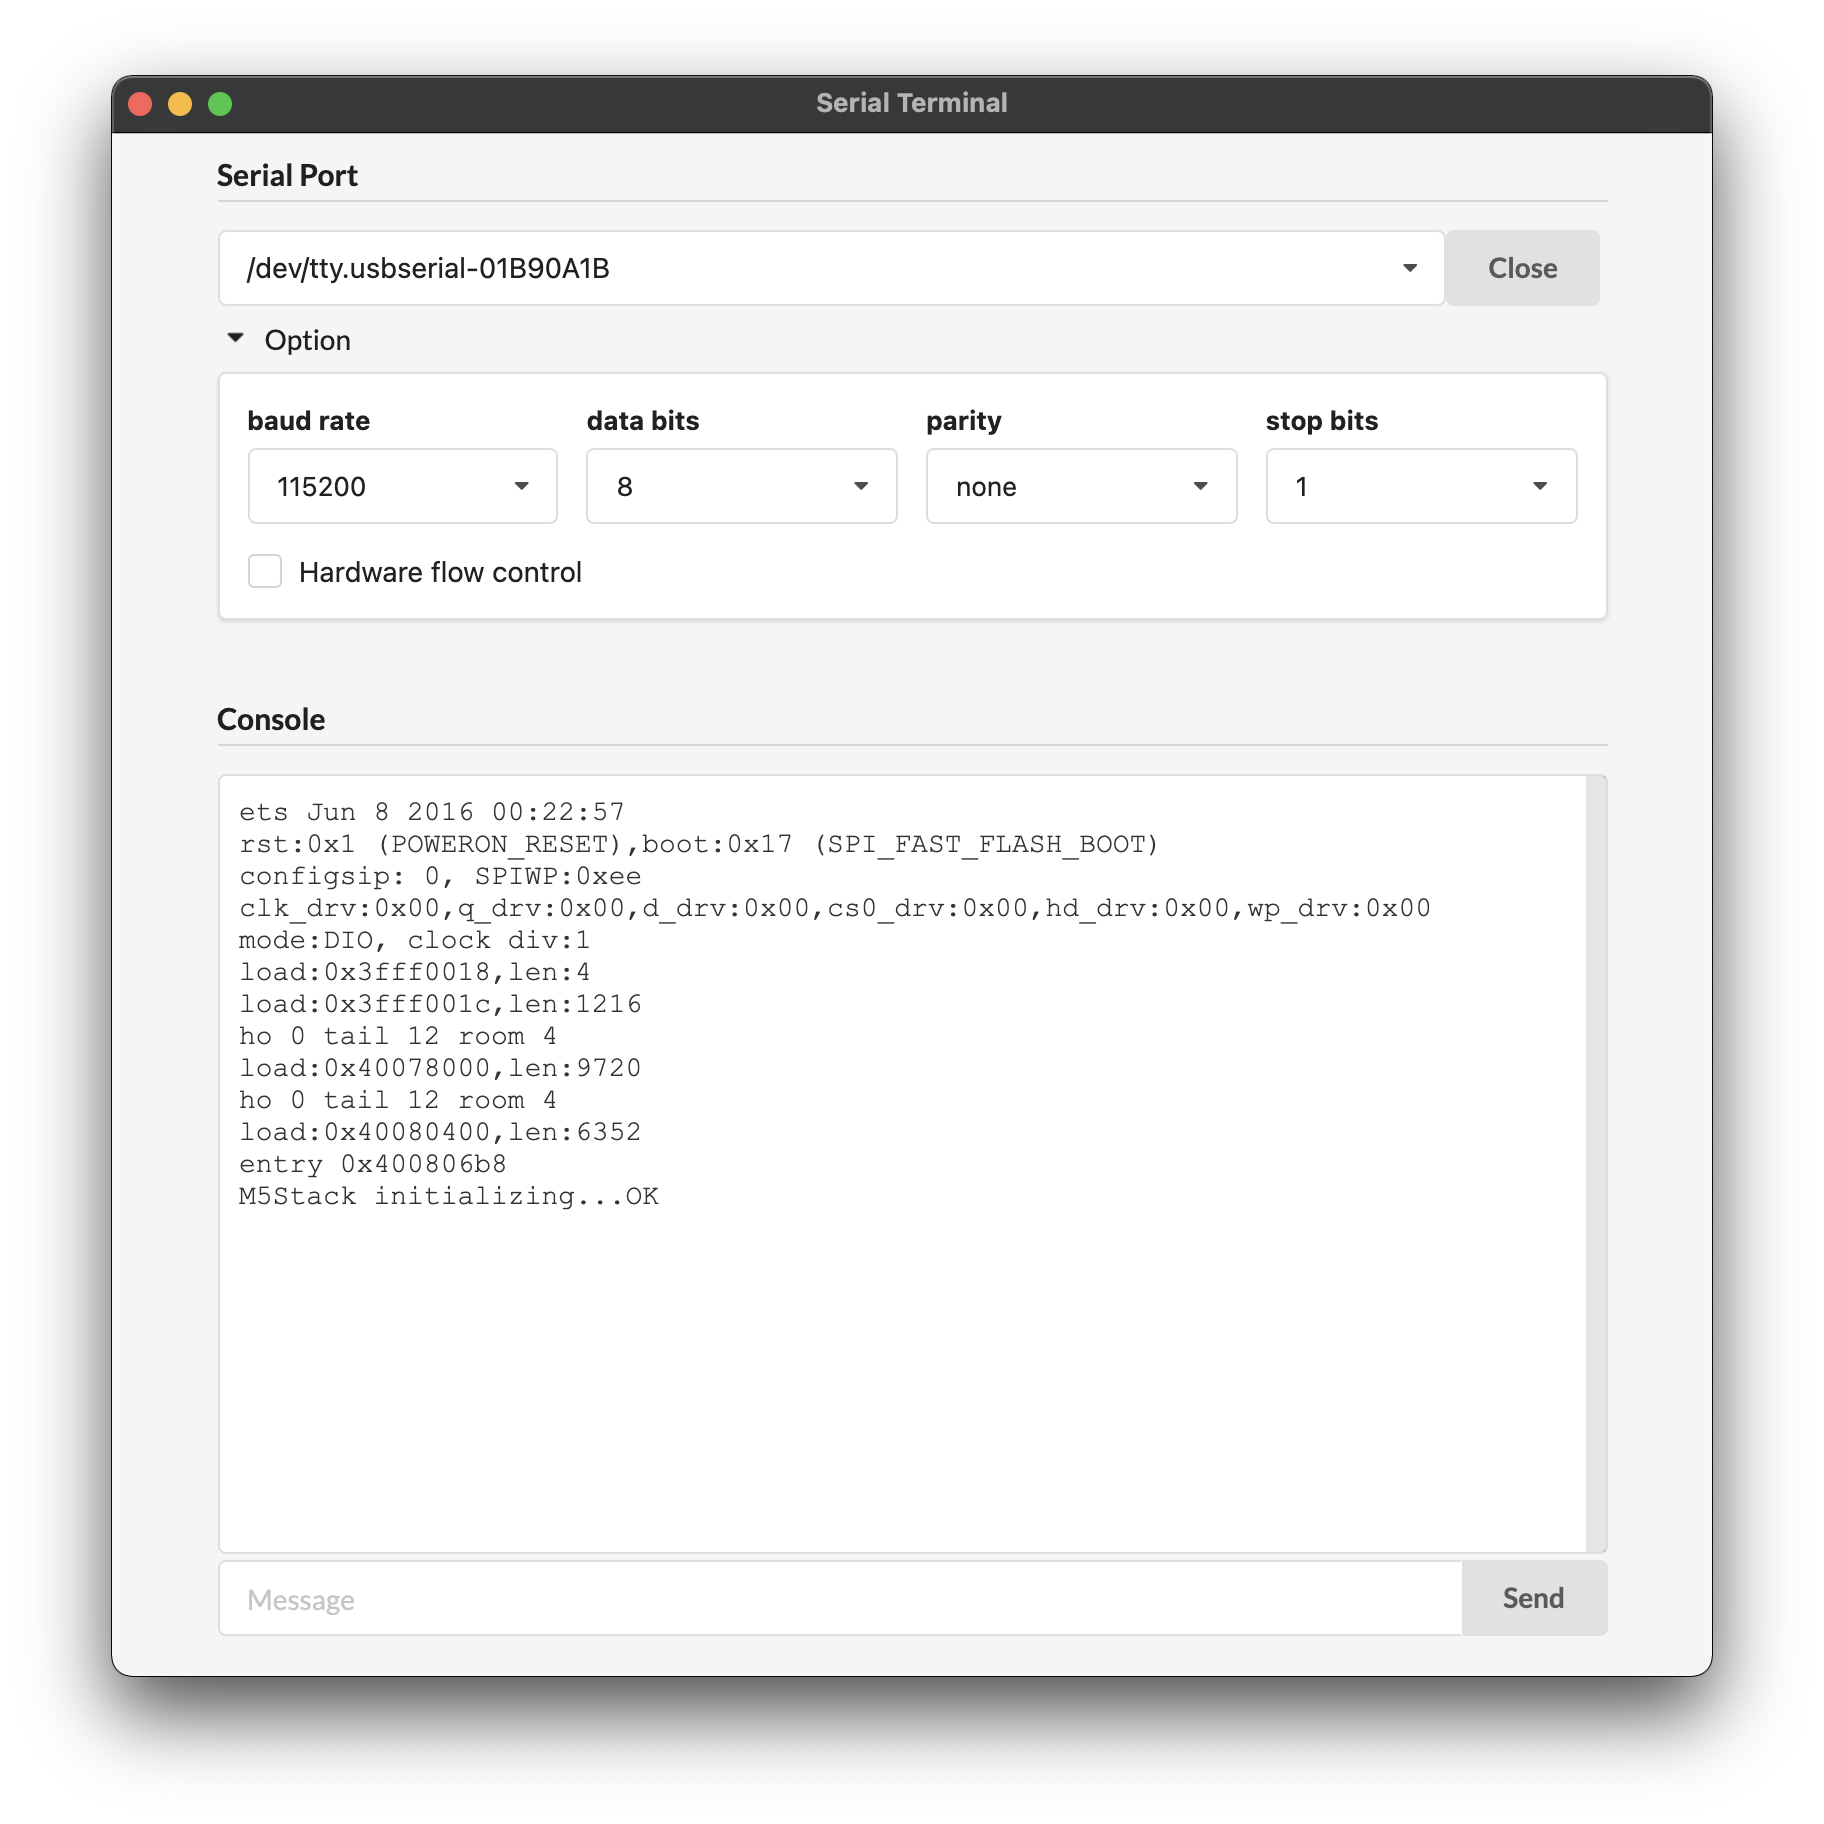
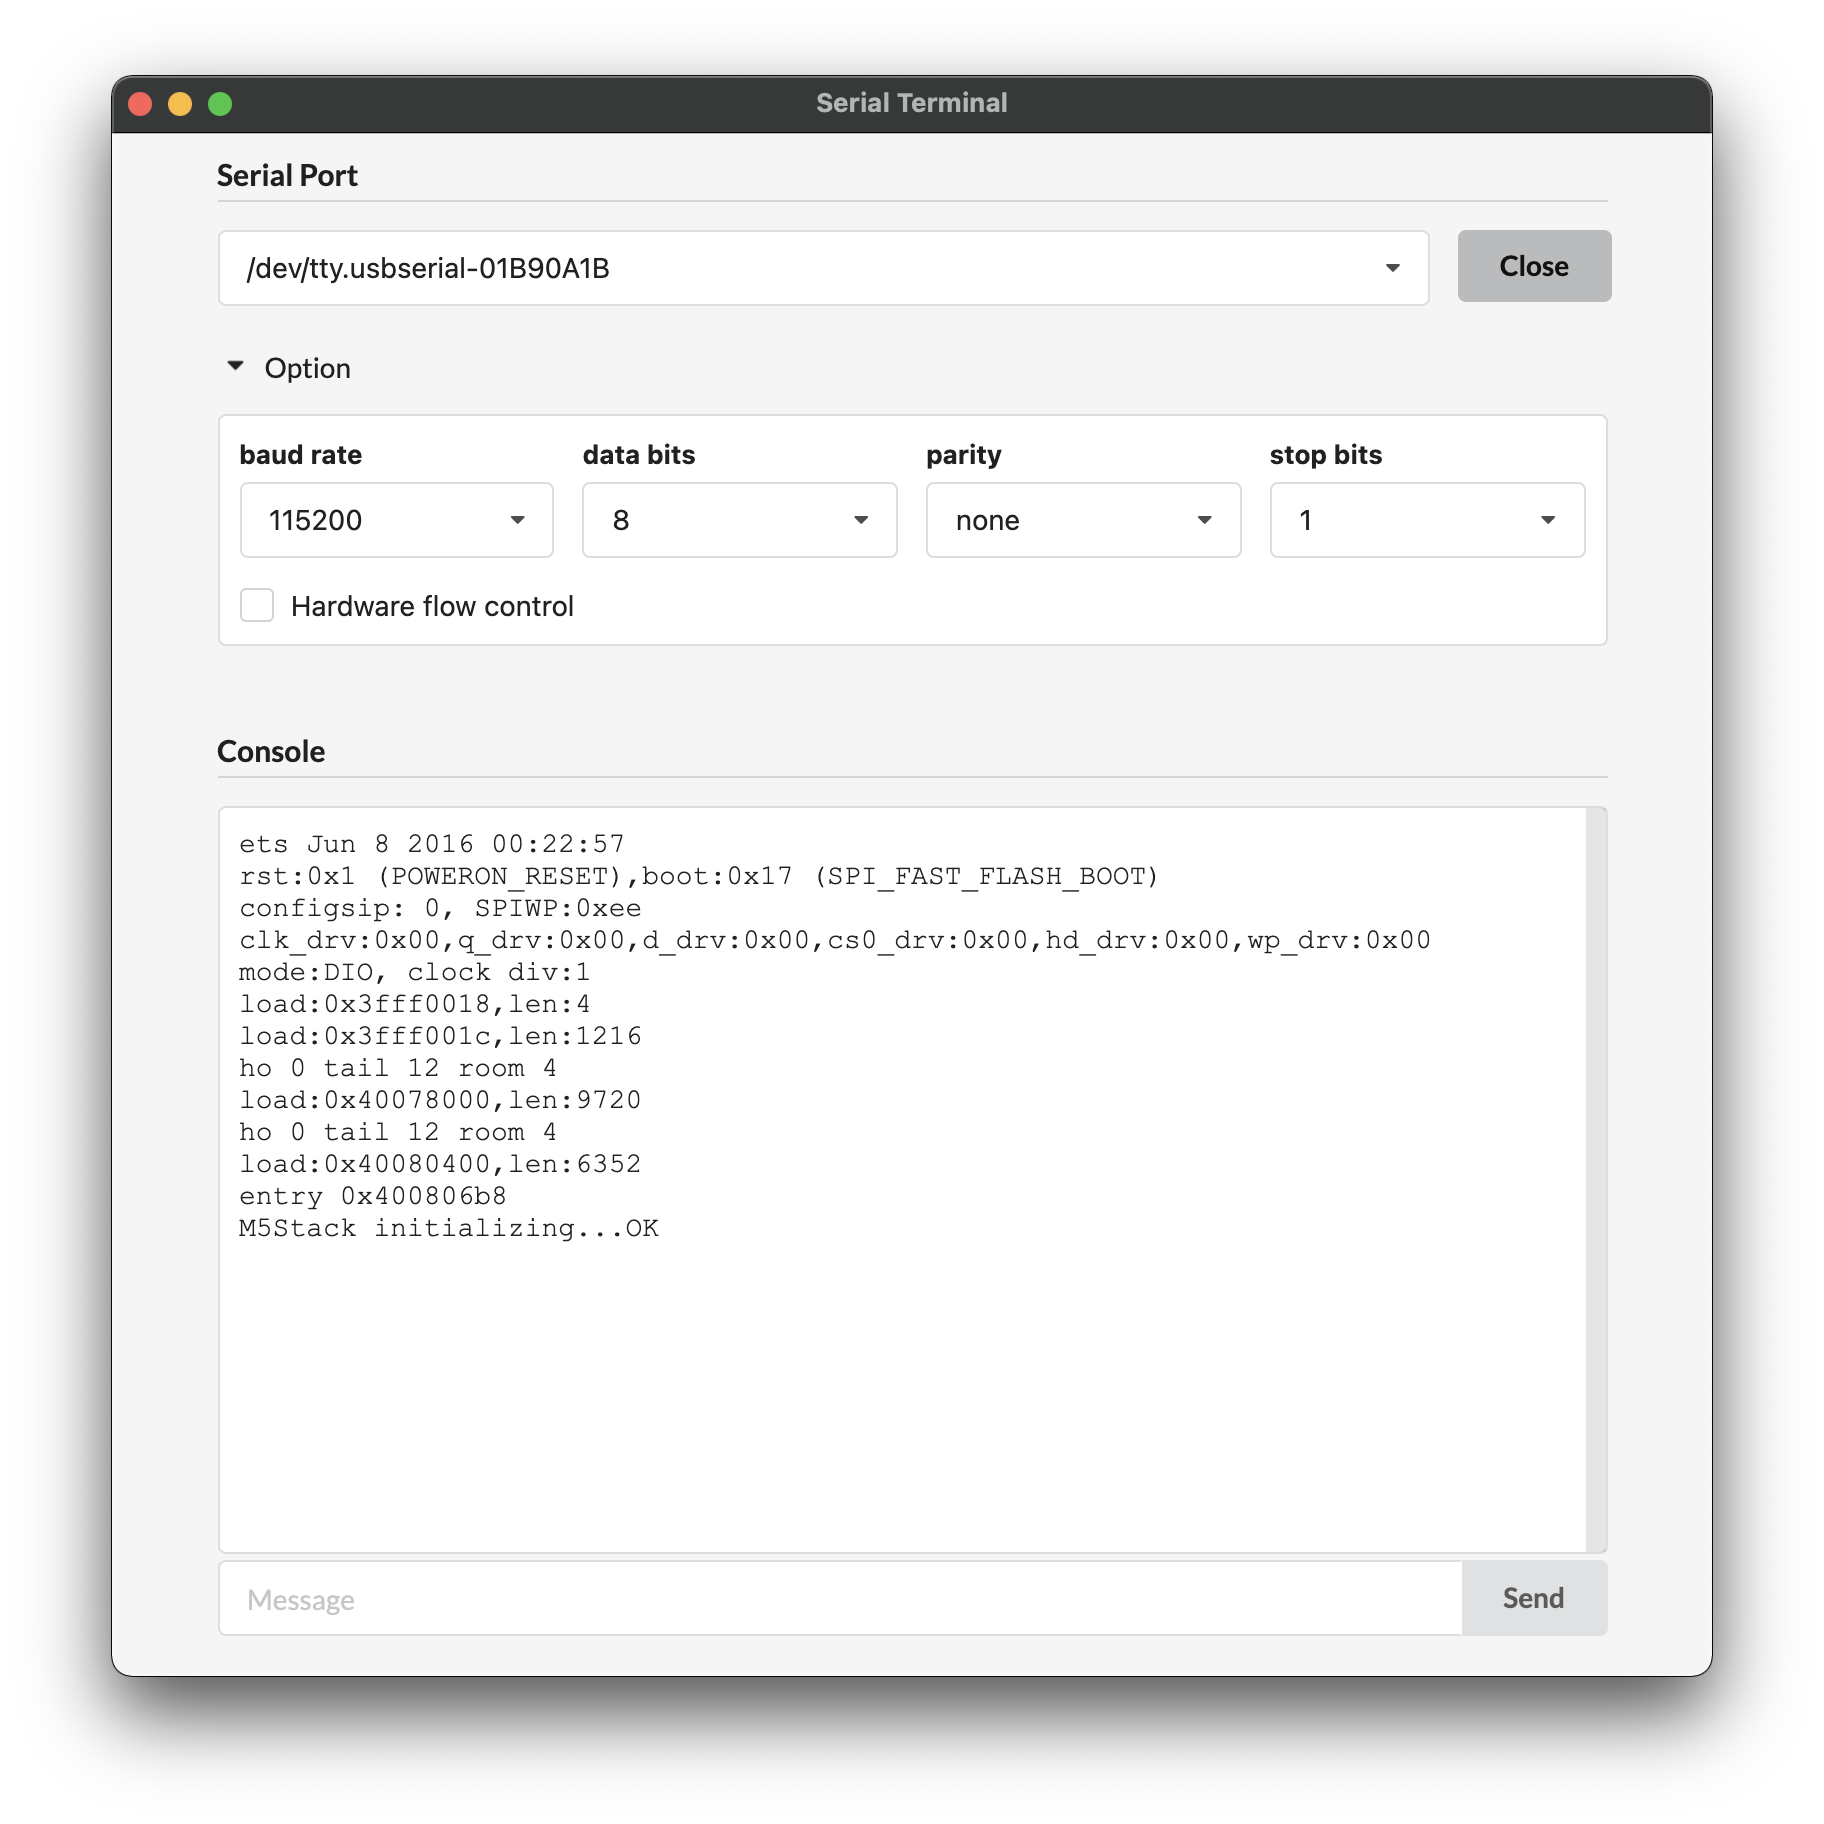
mod ui layout

diff --git a/index.html b/index.html
@@ -15,93 +15,101 @@
 
     <div id="serial-seg" class="ui basic segment">
       <h4 class="ui dividing header title">Serial Port</h4>
-      <div class="ui fluid input">
-        <div id="port-dropdown" class="ui fluid selection dropdown">
-          <input type="hidden">
-          <i class="dropdown icon"></i>
-          <div class="default text">Serial Port</div>
-          <div id="port-list" class="menu">
-            <div class="item disabled" data-value="no-port">no serial port</div>
+      <form class="ui form">
+        <div class="fields">
+          <div class="fourteen wide field">
+            <div id="port-dropdown" class="ui  selection dropdown">
+              <input type="hidden">
+              <i class="dropdown icon"></i>
+              <div class="default text">Serial Port</div>
+              <div id="port-list" class="menu">
+                <div class="item disabled" data-value="no-port">no serial port</div>
+              </div>
+            </div>
+          </div>
+          <div class="one wide field">
+            <button id="port-open-close" type="button" class="ui button">Open</button>
           </div>
         </div>
-        <button id="port-open-close" class="ui button">Open</button>
-      </div>
+      </form>
 
       <div id="option" class="ui accordion">
         <div class="title">
           <i class="icon dropdown"></i>
           Option
         </div>
-        <div class="content ui segment">
-          <form class="ui form">
-            <div class="fields">
-              <div class="four wide field">
-                <label>baud rate</label>
-                <div id="baudrate" class="ui small fluid selection dropdown">
-                  <input type="hidden">
-                  <i class="dropdown icon"></i>
-                  <div class="default text">baud rate</div>
-                  <div class="menu">
-                    <div class="item" data-value="9600">9600</div>
-                    <div class="item" data-value="14400">14400</div>
-                    <div class="item" data-value="19220">19220</div>
-                    <div class="item" data-value="28800">28800</div>
-                    <div class="item" data-value="38400">38400</div>
-                    <div class="item" data-value="57600">57600</div>
-                    <div class="item" data-value="115200">115200</div>
-                    <div class="item" data-value="230400">230400</div>
-                    <div class="item" data-value="460800">460800</div>
-                    <div class="item" data-value="921600">921600</div>
+        <div class="content">
+          <div class="frame">
+            <form class="ui form">
+              <div class="four fields">
+                <div class="field">
+                  <label>baud rate</label>
+                  <div id="baudrate" class="ui fluid selection dropdown">
+                    <input type="hidden">
+                    <i class="dropdown icon"></i>
+                    <div class="default text">baud rate</div>
+                    <div class="menu">
+                      <div class="item" data-value="9600">9600</div>
+                      <div class="item" data-value="14400">14400</div>
+                      <div class="item" data-value="19220">19220</div>
+                      <div class="item" data-value="28800">28800</div>
+                      <div class="item" data-value="38400">38400</div>
+                      <div class="item" data-value="57600">57600</div>
+                      <div class="item" data-value="115200">115200</div>
+                      <div class="item" data-value="230400">230400</div>
+                      <div class="item" data-value="460800">460800</div>
+                      <div class="item" data-value="921600">921600</div>
+                    </div>
+                  </div>
+                </div>
+                <div class="field">
+                  <label>data bits</label>
+                  <div id="databits" class="ui fluid selection dropdown">
+                    <input type="hidden">
+                    <i class="dropdown icon"></i>
+                    <div class="default text">data bits</div>
+                    <div class="menu">
+                      <div class="item" data-value="5">5</div>
+                      <div class="item" data-value="6">6</div>
+                      <div class="item" data-value="7">7</div>
+                      <div class="item" data-value="8">8</div>
+                    </div>
+                  </div>
+                </div>
+                <div class="field">
+                  <label>parity</label>
+                  <div id="parity" class="ui fluid selection dropdown">
+                    <input type="hidden">
+                    <i class="dropdown icon"></i>
+                    <div class="default text">parity</div>
+                    <div class="menu">
+                      <div class="item" data-value="none">none</div>
+                      <div class="item" data-value="even">even</div>
+                      <div class="item" data-value="mark">mark</div>
+                      <div class="item" data-value="odd">odd</div>
+                      <div class="item" data-value="space">space</div>
+                    </div>
+                  </div>
+                </div>
+                <div class="field">
+                  <label>stop bits</label>
+                  <div id="stopbits" class="ui fluid selection dropdown">
+                    <input type="hidden">
+                    <i class="dropdown icon"></i>
+                    <div class="default text">stop bits</div>
+                    <div class="menu">
+                      <div class="item" data-value="1">1</div>
+                      <div class="item" data-value="2">2</div>
+                    </div>
                   </div>
                 </div>
               </div>
-              <div class="four wide field">
-                <label>data bits</label>
-                <div id="databits" class="ui fluid selection dropdown">
-                  <input type="hidden">
-                  <i class="dropdown icon"></i>
-                  <div class="default text">data bits</div>
-                  <div class="menu">
-                    <div class="item" data-value="5">5</div>
-                    <div class="item" data-value="6">6</div>
-                    <div class="item" data-value="7">7</div>
-                    <div class="item" data-value="8">8</div>
-                  </div>
-                </div>
+              <div id="rtscts" class="ui checkbox">
+                <input type="checkbox">
+                <label>Hardware flow control</label>
               </div>
-              <div class="four wide field">
-                <label>parity</label>
-                <div id="parity" class="ui fluid selection dropdown">
-                  <input type="hidden">
-                  <i class="dropdown icon"></i>
-                  <div class="default text">parity</div>
-                  <div class="menu">
-                    <div class="item" data-value="none">none</div>
-                    <div class="item" data-value="even">even</div>
-                    <div class="item" data-value="mark">mark</div>
-                    <div class="item" data-value="odd">odd</div>
-                    <div class="item" data-value="space">space</div>
-                  </div>
-                </div>
-              </div>
-              <div class="four wide field">
-                <label>stop bits</label>
-                <div id="stopbits" class="ui fluid selection dropdown">
-                  <input type="hidden">
-                  <i class="dropdown icon"></i>
-                  <div class="default text">stop bits</div>
-                  <div class="menu">
-                    <div class="item" data-value="1">1</div>
-                    <div class="item" data-value="2">2</div>
-                  </div>
-                </div>
-              </div>
-            </div>
-            <div id="rtscts" class="ui checkbox">
-              <input type="checkbox">
-              <label>Hardware flow control</label>
-            </div>
-          </form>
+            </form>
+          </div>
         </div>
       </div>
     </div>
@@ -110,7 +118,7 @@
       <h4 class="ui dividing header title">Console</h4>
       <div class="ui form">
         <div class="field">
-          <div id="console-log"></div>
+          <div id="console-log" class="frame"></div>
         </div>
       </div>
       <div class="ui fluid action input">

diff --git a/static/css/main.css b/static/css/main.css
@@ -32,7 +32,6 @@ html {
 
 body {
     font-family: -apple-system, BlinkMacSystemFont, "Segoe UI", Roboto, "Helvetica Neue", Arial, "Noto Sans", sans-serif, "Apple Color Emoji", "Segoe UI Emoji", "Segoe UI Symbol", "Noto Color Emoji";
-    color: var(--text);
     background-color: var(--background);
 }
 
@@ -40,28 +39,15 @@ h1, h2, h3, h4, h5, h6, .h1, .h2, .h3, .h4, .h5, .h6 {
     font-weight: 300;
 }
 
-#port-list div,
-#baudrate div,
-#databits div,
-#parity div,
-#stopbits div {
-    font-size: 0.95em !important;
-}
-
-#port-open {
-    margin-left: 3px;
-}
-
-#option .segment {
-    margin: 0px;
-}
-
-#console-log {
+.frame {
     margin-bottom: 3px;
     padding: 10px;
     border: 1px solid #ddd;
     border-radius: 4px;
-    background-color: white;
+    background-color: var(--white);;
+}
+
+#console-log {
     overflow-y: scroll;
     font-family: 'Courier New', Courier, Monaco, monospace;
     line-height: 1.2;

diff --git a/renderer.js b/renderer.js
@@ -144,7 +144,7 @@ $('#port-open-close').on({
         port.open(function (err) {
             $('#port-open-close').removeClass('loading')
             if (err) {
-                $('#port-dropdown').parent().transition({ animation: 'shake', duration: 200 })
+                $('#port-dropdown').transition({ animation: 'shake', duration: 200 })
                 port = null
                 return console.log('Error on open: ', err)
             }

diff --git a/main.js b/main.js
@@ -10,6 +10,8 @@ function createWindow() {
     width: 800,
     height: 800,
     webPreferences: {
+      nodeIntegration: true,
+      contextIsolation: false,
       preload: path.join(__dirname, 'preload.js')
     }
   })
